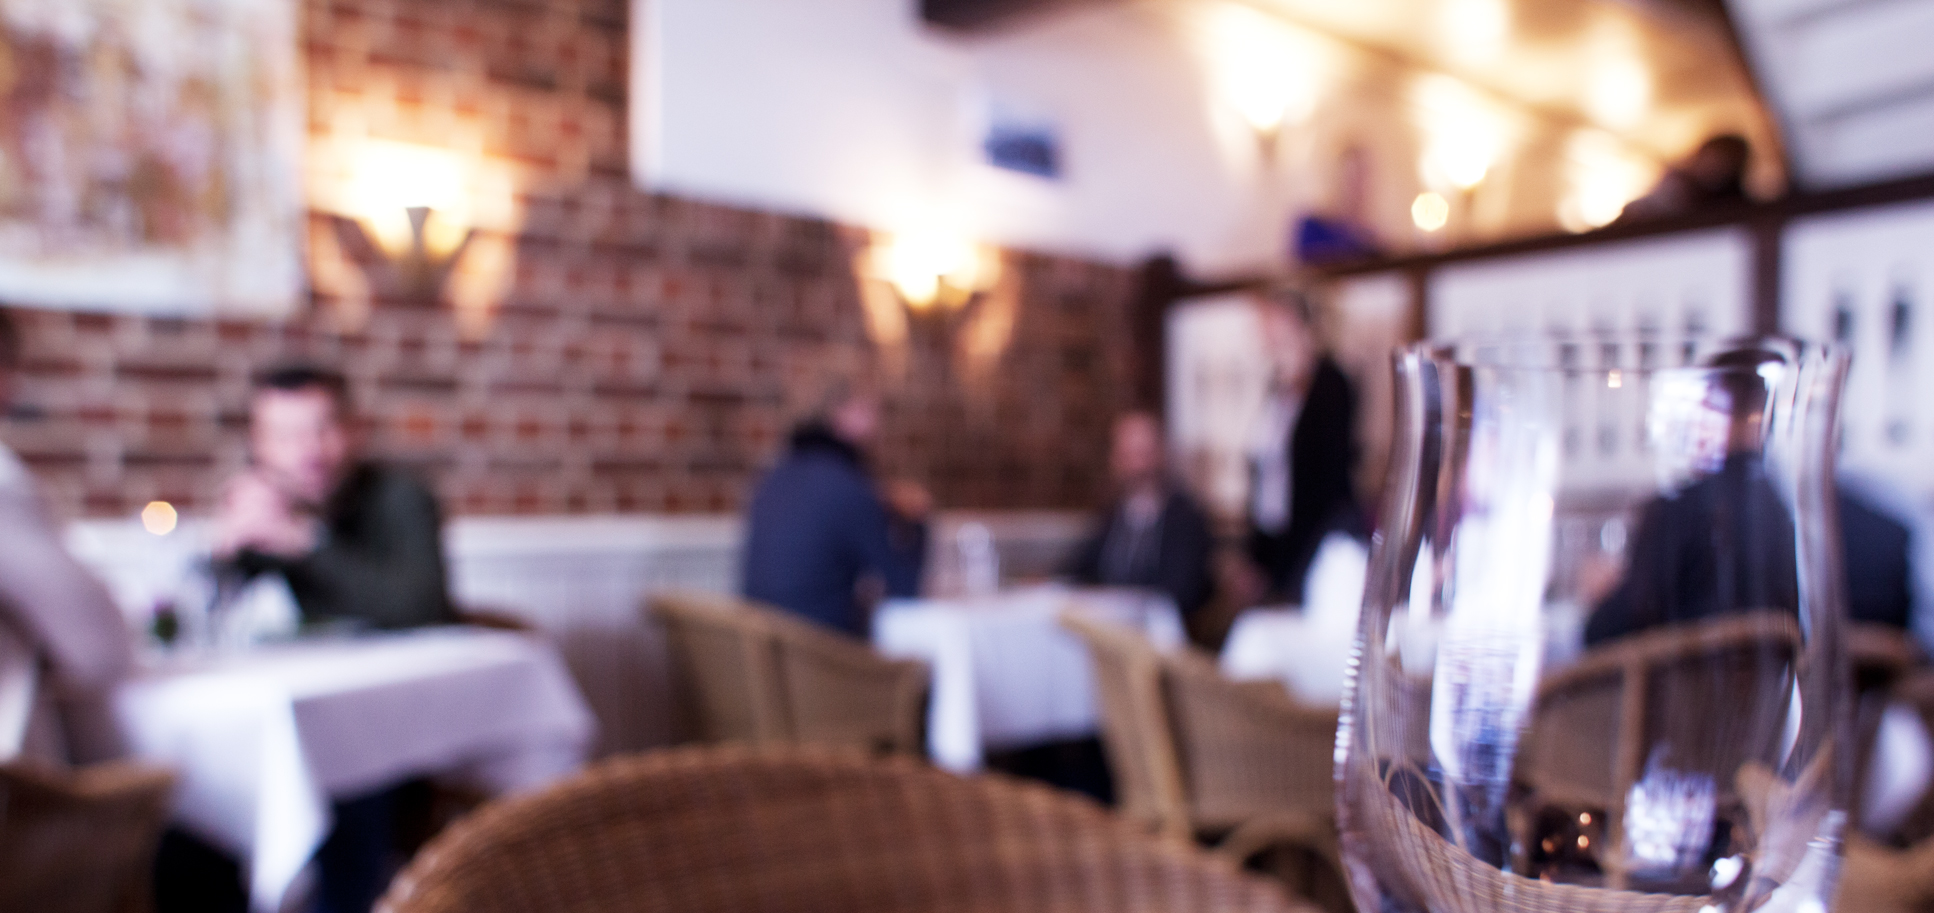
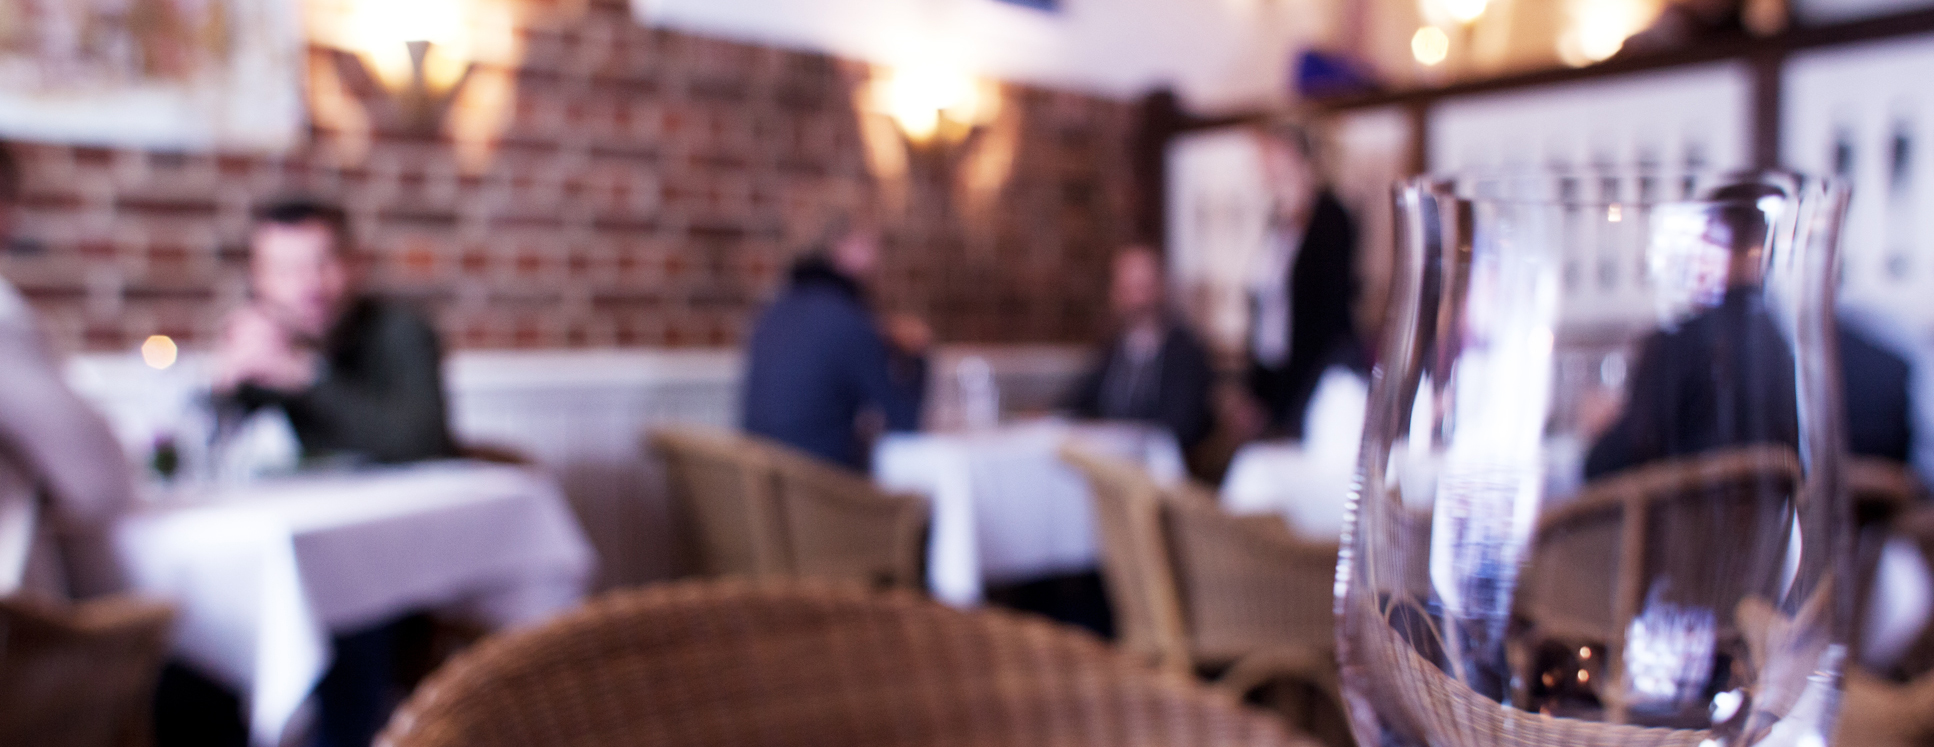
change header hight

diff --git a/css/gastroapp.css b/css/gastroapp.css
@@ -32,18 +32,18 @@ body {
 #main-section #hero-section {
   position: static;
   width: 940px;
-  height: 870px;
+  height: 747px;
   margin: 0 auto;
   margin-bottom: 40px;
 }
 #main-section #mask {
   width: 1934px;
-  height: 870px;
+  height: 747px;
   margin: 0 -497px;
 }
 #main-section #view {
   width: 100%;
-  height: 870px;
+  height: 747px;
   position: relative;
 }
 #main-section #phone-container {

diff --git a/css/gastroapp.less b/css/gastroapp.less
@@ -31,18 +31,18 @@ body {
   #hero-section {
     position: static;
     width: 940px;
-    height: 870px;
+    height: 747px;
     margin: 0 auto;
     margin-bottom: 40px;
   }
   #mask {
     width: 1934px;
-    height: 870px;
+    height: 747px;
     margin: 0 -497px;
   }
   #view {
     width: 100%;
-    height: 870px;
+    height: 747px;
     position: relative;
   }
   #phone-container {
